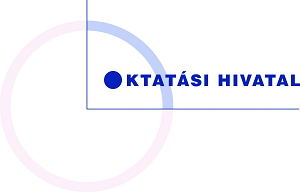
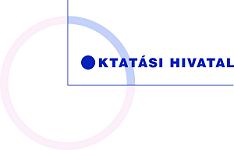
logók

diff --git a/hovatovabb/program/sandbox.css b/hovatovabb/program/sandbox.css
@@ -63,4 +63,4 @@ td.a { color:black; text-align:left; border: 15px solid rgba(200,0,0,0); backgro
 div.alul { width:100%; padding:20px; text-align: center; background-color:#232121; color:white; height: 100%; border-top:4px solid white}
 table.c {margin:auto; border-spacing: 50px; width: 100%}
 
-img {margin:30px;}
+img {margin:20px;}
